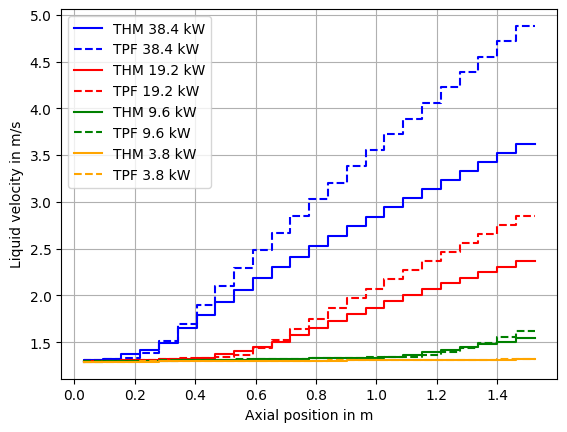
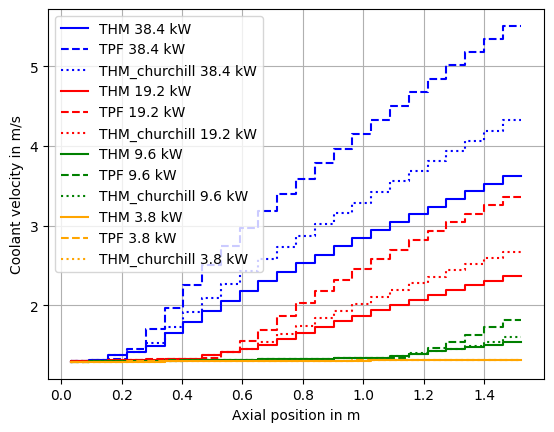
comparaiosn THM pour le f de chruchill

diff --git a/Version5_ev3727/Plot_TPF_THM.py b/Version5_ev3727/Plot_TPF_THM.py
@@ -36,6 +36,17 @@ raw_data_0 = """PCOOL:   7214343.00       7213741.50       7213140.50       7212
  MUT:   9.80513869E-05   9.78959506E-05   9.77416494E-05   9.75866351E-05   9.74330032E-05   9.72788766E-05   9.71258851E-05   9.69723988E-05   9.68200038E-05   9.66672960E-05   9.65148793E-05   9.63631755E-05   9.62116537E-05   9.60604375E-05   9.59094905E-05   9.57589800E-05   9.56083750E-05   9.54586067E-05   9.53086346E-05   9.51594920E-05   9.50099784E-05   9.48612069E-05   9.47124281E-05   9.45642823E-05   9.44160056E-05
  HCOOL:   1186342.25       1188152.50       1189962.88       1191773.00       1193583.25       1195393.38       1197203.75       1199013.88       1200824.25       1202634.62       1204444.88       1206255.12       1208065.38       1209875.62       1211685.75       1213496.00       1215306.25       1217116.62       1218927.00       1220737.38       1222547.50       1224357.88       1226168.38       1227978.50       1229788.88    
 """
+#friction churchill
+raw_data_0c="""PCOOL:   7214343.00       7213742.00       7213140.50       7212540.00       7211939.50       7211339.50       7210740.00       7210140.50       7209541.00       7208942.50       7208344.00       7207746.00       7207148.00       7206550.50       7205953.50       7205356.50       7204760.00       7204164.00       7203568.00       7202972.50       7202377.50       7201782.50       7201188.00       7200594.00       7200000.00    
+ VCOOL:   1.28856492       1.28961885       1.29067099       1.29173350       1.29279280       1.29386115       1.29492581       1.29600334       1.29707670       1.29816020       1.29924440       1.30033183       1.30142474       1.30251861       1.30361915       1.30472124       1.30582905       1.30693853       1.30805612       1.30917287       1.31029522       1.31142247       1.31255352       1.31368744       1.31482649    
+ DCOOL:   769.617004       768.988037       768.361206       767.729187       767.100098       766.466675       765.836548       765.199768       764.566528       763.928406       763.290955       762.652588       762.012024       761.372070       760.729431       760.086975       759.442139       758.797363       758.149048       757.502319       756.853577       756.203308       755.551514       754.899231       754.244141    
+ TCOOL:   543.329163       543.685486       544.039612       544.395630       544.748901       545.103638       545.455505       545.810059       546.161560       546.514771       546.866577       547.217773       547.569153       547.919189       548.269592       548.618835       548.968384       549.316833       549.666016       550.013367       550.360718       550.707764       551.054626       551.400635       551.746948    
+ EPS:   0.00000000       0.00000000       0.00000000       0.00000000       0.00000000       0.00000000       0.00000000       0.00000000       0.00000000       0.00000000       0.00000000       0.00000000       0.00000000       0.00000000       0.00000000       0.00000000       0.00000000       0.00000000       0.00000000       0.00000000       0.00000000       0.00000000       0.00000000       0.00000000       0.00000000    
+ XFL:   0.00000000       0.00000000       0.00000000       0.00000000       0.00000000       0.00000000       0.00000000       0.00000000       0.00000000       0.00000000       0.00000000       0.00000000       0.00000000       0.00000000       0.00000000       0.00000000       0.00000000       0.00000000       0.00000000       0.00000000       0.00000000       0.00000000       0.00000000       0.00000000       0.00000000    
+ TSAT:   561.028198       561.022522       561.016846       561.011169       561.005493       560.999817       560.994202       560.988525       560.982849       560.977173       560.971558       560.965881       560.960205       560.954590       560.948914       560.943298       560.937622       560.932007       560.926392       560.920715       560.915100       560.909485       560.903870       560.898254       560.892639    
+ MUT:   9.80513869E-05   9.78960015E-05   9.77417294E-05   9.75867952E-05   9.74332143E-05   9.72791386E-05   9.71264599E-05   9.69727625E-05   9.68205277E-05   9.66676889E-05   9.65155923E-05   9.63638886E-05   9.62122285E-05   9.60612742E-05   9.59102836E-05   9.57599041E-05   9.56095028E-05   9.54596835E-05   9.53096533E-05   9.51605107E-05   9.50114627E-05   9.48626475E-05   9.47139924E-05   9.45657957E-05   9.44175481E-05
+ HCOOL:   1186342.25       1188151.75       1189961.12       1191770.62       1193580.12       1195389.75       1197199.25       1199008.75       1200818.25       1202627.75       1204437.25       1206246.88       1208056.38       1209865.88       1211675.25       1213484.75       1215294.25       1217103.62       1218913.12       1220722.62       1222532.12       1224341.50       1226151.00       1227960.50       1229770.00    
+"""
 
 raw_data_1="""PCOOL:   7214648.00       7214045.50       7213444.00       7212843.00       7212243.00       7211643.50       7211045.00       7210447.50       7209850.50       7209254.50       7208659.50       7208065.00       7207471.50       7206879.00       7206287.00       7205696.00       7205105.50       7204516.50       7203904.50       7203277.00       7202641.00       7201996.00       7201342.00       7200678.50       7200000.00    
  VCOOL:   1.28936708       1.29203475       1.29472744       1.29744363       1.30018187       1.30294347       1.30572963       1.30854356       1.31137776       1.31424165       1.31712723       1.32004178       1.32298541       1.32595110       1.32894826       1.33197105       1.33502328       1.33810496       1.36738503       1.39379382       1.42038393       1.44739127       1.47522092       1.50430644       1.54363000    
@@ -46,6 +57,17 @@ raw_data_1="""PCOOL:   7214648.00       7214045.50       7213444.00       721284
  TSAT:   561.031128       561.025391       561.019714       561.014038       561.008362       561.002686       560.997070       560.991394       560.985779       560.980164       560.974487       560.968872       560.963257       560.957703       560.952087       560.946472       560.940918       560.935364       560.929565       560.923645       560.917603       560.911499       560.905334       560.899048       560.892639    
  MUT:   9.79334945E-05   9.75435323E-05   9.71548288E-05   9.67686137E-05   9.63849598E-05   9.60028556E-05   9.56228178E-05   9.52444752E-05   9.48681118E-05   9.44934436E-05   9.41207691E-05   9.37495715E-05   9.33803967E-05   9.30125534E-05   9.26462744E-05   9.22815234E-05   9.19183221E-05   9.15565470E-05   9.12295363E-05   9.10710078E-05   9.09199080E-05   9.07786234E-05   9.06509886E-05   9.05660272E-05   9.05685010E-05
  HCOOL:   1189104.12       1193676.38       1198248.62       1202820.88       1207393.12       1211965.38       1216537.62       1221110.00       1225682.25       1230254.38       1234826.62       1239398.88       1243971.25       1248543.50       1253115.75       1257687.88       1262260.00       1266832.25       1270870.00       1274895.00       1278887.88       1282838.88       1286737.12       1290571.12       1294104.50    
+"""
+#friction churchill
+raw_data_1c="""PCOOL:   7214749.00       7214147.00       7213545.00       7212944.00       7212344.00       7211745.00       7211146.50       7210549.00       7209952.00       7209356.00       7208761.00       7208166.50       7207573.00       7206980.00       7206388.50       7205797.50       7205207.00       7204617.50       7204005.00       7203375.00       7202735.00       7202085.00       7201415.50       7200716.00       7200000.00    
+ VCOOL:   1.28936708       1.29203343       1.29472661       1.29744279       1.30017984       1.30294120       1.30572653       1.30853975       1.31137395       1.31423688       1.31712162       1.32003784       1.32297611       1.32594383       1.32893908       1.33196247       1.33501458       1.33809519       1.36788917       1.39524591       1.42331851       1.45245349       1.49104238       1.54436016       1.59661555    
+ DCOOL:   769.138184       767.550781       765.954285       764.350769       762.741760       761.125244       759.501587       757.868774       756.230225       754.583435       752.929565       751.267578       749.598755       747.921082       746.235352       744.541443       742.839478       741.129150       724.983459       710.770996       696.752258       682.775452       665.107117       642.146912       621.127625    
+ TCOOL:   543.600952       544.497192       545.391846       546.283875       547.172302       548.058167       548.941284       549.822571       550.700073       551.575195       552.447144       553.316284       554.182129       555.045410       555.905701       556.762939       557.617065       558.468018       559.333740       559.797668       560.240173       560.655518       560.906006       560.899414       560.892639    
+ EPS:   0.00000000       0.00000000       0.00000000       0.00000000       0.00000000       0.00000000       0.00000000       0.00000000       0.00000000       0.00000000       0.00000000       0.00000000       0.00000000       0.00000000       0.00000000       0.00000000       0.00000000       0.00000000       2.00579576E-02   3.91325913E-02   5.80414869E-02   7.70120323E-02  0.101706922      0.134595037      0.164703265    
+ XFL:   0.00000000       0.00000000       0.00000000       0.00000000       0.00000000       0.00000000       0.00000000       0.00000000       0.00000000       0.00000000       0.00000000       0.00000000       0.00000000       0.00000000       0.00000000       0.00000000       0.00000000       0.00000000       1.37762004E-03   2.77754315E-03   4.25683009E-03   5.83665399E-03   8.00748449E-03   1.10942414E-02   1.41817238E-02
+ TSAT:   561.032043       561.026367       561.020691       561.015015       561.009338       561.003662       560.998047       560.992371       560.986755       560.981079       560.975464       560.969849       560.964233       560.958618       560.953064       560.947449       560.941895       560.936279       560.930481       560.924561       560.918518       560.912354       560.906006       560.899414       560.892639    
+ MUT:   9.79331235E-05   9.75431903E-05   9.71549380E-05   9.67687520E-05   9.63849889E-05   9.60031539E-05   9.56232470E-05   9.52448245E-05   9.48686647E-05   9.44941057E-05   9.41214312E-05   9.37504155E-05   9.33812116E-05   9.30134483E-05   9.26472421E-05   9.22825711E-05   9.19193917E-05   9.15576748E-05   9.11897223E-05   9.09924347E-05   9.08042275E-05   9.06275382E-05   9.05633424E-05   9.05658817E-05   9.05685010E-05
+ HCOOL:   1189104.12       1193675.62       1198247.00       1202818.38       1207389.75       1211961.25       1216532.50       1221104.00       1225675.38       1230246.75       1234818.12       1239389.38       1243960.75       1248532.25       1253103.50       1257675.00       1262246.25       1266817.62       1271388.88       1275960.25       1280531.62       1285102.88       1289674.25       1294245.50       1298817.00    
 """
 
 raw_data_2 = """PCOOL:   7218490.50       7217886.00       7217283.50       7216682.00       7216082.50       7215484.50       7214888.00       7214293.00       7213669.00       7213027.50       7212372.00       7211692.50       7210962.00       7210208.00       7209429.50       7208624.50       7207792.00       7206931.00       7206039.50       7205117.00       7204162.00       7203174.00       7202151.50       7201093.50       7200000.00    
@@ -58,6 +80,17 @@ raw_data_2 = """PCOOL:   7218490.50       7217886.00       7217283.50       7216
  MUT:   9.77393938E-05   9.69631583E-05   9.61953920E-05   9.54354982E-05   9.46829750E-05   9.39378660E-05   9.31989052E-05   9.24668930E-05   9.16559366E-05   9.11999086E-05   9.07823633E-05   9.05258348E-05   9.05284978E-05   9.05312481E-05   9.05340785E-05   9.05370252E-05   9.05400593E-05   9.05431953E-05   9.05464476E-05   9.05498164E-05   9.05533016E-05   9.05569032E-05   9.05606576E-05   9.05645211E-05   9.05685010E-05
  HCOOL:   1193675.62       1202819.25       1211963.00       1221106.62       1230250.25       1239394.00       1248537.75       1257681.38       1266142.62       1274549.25       1282832.25       1290741.12       1297698.75       1304560.88       1311344.00       1318061.62       1324724.75       1331343.00       1337923.62       1344473.25       1350997.38       1357501.00       1363988.00       1370461.88       1376925.75    
 """
+#friction churchill
+raw_data_2c = """PCOOL:   7220179.00       7219575.00       7218972.00       7218371.00       7217771.00       7217173.00       7216576.50       7215982.00       7215356.50       7214711.50       7214051.00       7213325.50       7212552.00       7211745.50       7210903.50       7210022.50       7209100.50       7208135.00       7207124.00       7206065.50       7204957.50       7203799.00       7202587.50       7201321.50       7200000.00    
+ VCOOL:   1.29068792       1.29606915       1.30154288       1.30711448       1.31278431       1.31855631       1.32443774       1.33042383       1.37218606       1.41015458       1.45152760       1.53730083       1.64058197       1.74008000       1.83617616       1.92921031       2.01948595       2.10726070       2.19277024       2.27624059       2.35785532       2.43778491       2.51604915       2.59297299       2.66859818    
+ DCOOL:   768.351257       765.161072       761.943726       758.695251       755.418945       752.112000       748.771973       745.402832       722.719604       703.264954       683.223389       645.145264       604.526550       569.957520       540.125366       514.074585       491.091736       470.631470       452.274445       435.686218       420.601685       406.806976       394.149109       382.452911       371.610596    
+ TCOOL:   544.049927       545.838257       547.615356       549.382751       551.138062       552.882202       554.615601       556.335632       558.367432       559.562256       560.671265       561.018616       561.011292       561.003662       560.995728       560.987427       560.978699       560.969604       560.960022       560.950012       560.939514       560.928589       560.917114       560.905151       560.892639    
+ EPS:   0.00000000       0.00000000       0.00000000       0.00000000       0.00000000       0.00000000       0.00000000       0.00000000       2.57300157E-02   5.04202172E-02   7.63334781E-02  0.130037963      0.188232660      0.237760067      0.280500889      0.317824304      0.350752294      0.380066425      0.406367064      0.430133522      0.451745659      0.471509635      0.489644885      0.506402194      0.521936059    
+ XFL:   0.00000000       0.00000000       0.00000000       0.00000000       0.00000000       0.00000000       0.00000000       0.00000000       1.74785615E-03   3.61474790E-03   5.78150619E-03   1.06728915E-02   1.68290492E-02   2.29857750E-02   2.91432068E-02   3.53013910E-02   4.14603837E-02   4.76206131E-02   5.37814274E-02   5.99433333E-02   6.61062971E-02   7.22701177E-02   7.84350634E-02   8.46009329E-02   9.07678381E-02
+ TSAT:   561.083313       561.077637       561.071960       561.066284       561.060608       561.054932       561.049316       561.043701       561.037781       561.031677       561.025452       561.018616       561.011292       561.003662       560.995728       560.987427       560.978699       560.969543       560.960022       560.950012       560.939514       560.928589       560.917114       560.905151       560.892639    
+ MUT:   9.77394811E-05   9.69635948E-05   9.61961778E-05   9.54360803E-05   9.46838554E-05   9.39386227E-05   9.31997201E-05   9.24677952E-05   9.16042482E-05   9.10965391E-05   9.06252317E-05   9.05198758E-05   9.05226989E-05   9.05256456E-05   9.05287088E-05   9.05319102E-05   9.05352790E-05   9.05388151E-05   9.05424895E-05   9.05463530E-05   9.05504057E-05   9.05546185E-05   9.05590496E-05   9.05636698E-05   9.05685010E-05
+ HCOOL:   1193675.62       1202818.50       1211961.38       1221104.25       1230247.25       1239390.12       1248533.00       1257675.75       1266818.62       1275961.38       1285104.12       1294247.00       1303389.88       1312532.75       1321675.75       1330818.62       1339961.50       1349104.25       1358247.12       1367390.00       1376532.88       1385675.75       1394818.62       1403961.50       1413104.38    
+"""
 
 raw_data_4= """PCOOL:   7230546.50       7229938.00       7229333.00       7228693.50       7228038.50       7227341.00       7226523.50       7225663.50       7224753.00       7223787.50       7222761.00       7221669.00       7220508.50       7219275.00       7217965.50       7216577.00       7215106.00       7213549.50       7211904.50       7210168.00       7208336.50       7206407.00       7204377.00       7202242.00       7200000.00    
  VCOOL:   1.29334688       1.30429351       1.31563377       1.36956787       1.41714597       1.49067843       1.64780414       1.79303622       1.92915261       2.05806279       2.18113208       2.29939055       2.41364479       2.52453303       2.63234329       2.73774934       2.84100032       2.94238091       3.04214859       3.14050579       3.23765182       3.33375168       3.42896056       3.52340150       3.61719275    
@@ -69,7 +102,20 @@ raw_data_4= """PCOOL:   7230546.50       7229938.00       7229333.00       72286
  MUT:   9.73543865E-05   9.58192104E-05   9.43144987E-05   9.24204505E-05   9.12840042E-05   9.04688131E-05   9.04718036E-05   9.04749395E-05   9.04782355E-05   9.04817643E-05   9.04854824E-05   9.04894623E-05   9.04937042E-05   9.04982080E-05   9.05029592E-05   9.05080233E-05   9.05134002E-05   9.05190464E-05   9.05250563E-05   9.05313937E-05   9.05380875E-05   9.05451016E-05   9.05525230E-05   9.05603229E-05   9.05685010E-05
  HCOOL:   1202818.50       1221105.00       1239391.50       1256935.00       1274332.00       1290922.00       1304767.25       1318294.62       1331609.62       1344782.50       1357861.88       1370882.00       1383866.75       1396833.62       1409797.88       1422762.75       1435736.88       1448724.50       1461728.25       1474748.25       1487785.38       1500841.88       1513918.00       1527014.00       1540129.38    
 """
-z, TempVap, TempLiq, TempFuelC, TempStru, Void, Pressure, VelzVap, VelzLiq = [], [], [], [], [], [], [], [], []
+
+#friction churchill
+raw_data_4c="""PCOOL:   7238707.50       7238099.50       7237494.00       7236853.50       7236195.50       7235457.50       7234571.50       7233621.00       7232595.00       7231483.50       7230277.50       7228970.50       7227556.00       7226027.00       7224378.00       7222603.00       7220697.00       7218653.50       7216467.00       7214132.00       7211641.50       7208990.00       7206170.50       7203176.00       7200000.00    
+ VCOOL:   1.29332864       1.30427277       1.31561291       1.37010741       1.41898739       1.52459574       1.72744417       1.91655183       2.09445763       2.26316833       2.42430139       2.57917309       2.72856545       2.87360907       3.01490617       3.15305305       3.28855109       3.42182803       3.55325937       3.68316627       3.81183267       3.93950272       4.06640339       4.19272900       4.31864500    
+ DCOOL:   766.782593       760.347595       753.794373       723.815430       698.882812       650.480469       574.097595       517.450989       473.497498       438.199371       409.073792       384.510223       363.457458       345.112030       328.937439       314.525024       301.565521       289.819550       279.099213       269.254913       260.165833       251.733856       243.877274       236.528885       229.631760    
+ TCOOL:   544.944763       548.500061       552.011963       556.595581       559.420410       561.227478       561.219116       561.210144       561.200500       561.190002       561.178589       561.166321       561.152954       561.138550       561.122986       561.106201       561.088196       561.068909       561.048279       561.026245       561.002686       560.977661       560.950989       560.922668       560.892639    
+ EPS:   0.00000000       0.00000000       0.00000000       2.85868179E-02   5.70075400E-02  0.121926486      0.231430337      0.312639982      0.375652611      0.426256627      0.468011618      0.503226042      0.533407152      0.559706509      0.582893312      0.603553355      0.622129858      0.638965964      0.654330969      0.668439329      0.681464136      0.693545997      0.704801977      0.715328395      0.725206733    
+ XFL:   0.00000000       0.00000000       0.00000000       1.88527524E-03   4.11142269E-03   9.93153732E-03   2.22331136E-02   3.45358364E-02   4.68398444E-02   5.91456480E-02   7.14532435E-02   8.37622508E-02   9.60734189E-02  0.108386189      0.120700978      0.133017674      0.145336002      0.157656029      0.169977725      0.182300940      0.194625914      0.206952021      0.219279692      0.231608450      0.243938401    
+ TSAT:   561.258057       561.252380       561.246643       561.240601       561.234436       561.227478       561.219116       561.210144       561.200500       561.190002       561.178589       561.166321       561.152954       561.138550       561.122986       561.106201       561.088196       561.068909       561.048279       561.026245       561.002686       560.977661       560.950989       560.922668       560.892639    
+ MUT:   9.73567803E-05   9.58217061E-05   9.43169653E-05   9.23646439E-05   9.11645620E-05   9.04392873E-05   9.04425106E-05   9.04459739E-05   9.04496919E-05   9.04537446E-05   9.04581466E-05   9.04628760E-05   9.04680346E-05   9.04735934E-05   9.04795961E-05   9.04860790E-05   9.04930203E-05   9.05004636E-05   9.05084235E-05   9.05169290E-05   9.05260240E-05   9.05356792E-05   9.05459747E-05   9.05569104E-05   9.05685010E-05
+ HCOOL:   1202818.50       1221104.25       1239389.88       1257675.75       1275961.50       1294247.25       1312533.00       1330818.75       1349104.50       1367390.38       1385676.12       1403961.88       1422247.62       1440533.25       1458819.00       1477104.75       1495390.50       1513676.25       1531962.00       1550247.75       1568533.50       1586819.25       1605105.12       1623390.75       1641676.62    
+"""
+
+z, TempVap, TempLiq, TempFuelC, TempStru, Void, Pressure, VelzVap, VelzLiq, VelzMoy = [], [], [], [], [], [], [], [], [], []
 
 # Traitement de chaque ligne pour extraire les valeurs numériques
 def extraire(var_name, line_nb, data_name):
@@ -80,7 +126,7 @@ def extraire(var_name, line_nb, data_name):
         var_name.append(float(value))
     return
 
-# Valeurs THM
+# Valeurs THM sans Chruchill
 PCOOL0=[]
 PCOOL1=[]
 PCOOL2=[]
@@ -122,6 +168,44 @@ PCOOL=[PCOOL4, PCOOL2, PCOOL1, PCOOL0]
 EPS=[EPS4, EPS2, EPS1, EPS0]
 TCOOL=[TCOOL4, TCOOL2, TCOOL1, TCOOL0]
 
+# Valeurs THM avec Churchill
+PCOOL0c=[]
+PCOOL1c=[]
+PCOOL2c=[]
+PCOOL4c=[]  
+extraire(PCOOL0c, 0, raw_data_0c)
+extraire(PCOOL1c, 0, raw_data_1c)
+extraire(PCOOL2c, 0, raw_data_2c)
+extraire(PCOOL4c, 0, raw_data_4c)
+VCOOL0c=[]
+VCOOL1c=[]
+VCOOL2c=[]
+VCOOL4c=[]
+extraire(VCOOL0c, 1, raw_data_0c)
+extraire(VCOOL1c, 1, raw_data_1c)   
+extraire(VCOOL2c, 1, raw_data_2c)
+extraire(VCOOL4c, 1, raw_data_4c)
+EPS0c=[]
+EPS1c=[]
+EPS2c=[]
+EPS4c=[]
+extraire(EPS0c, 4, raw_data_0c)
+extraire(EPS1c, 4, raw_data_1c)
+extraire(EPS2c, 4, raw_data_2c)
+extraire(EPS4c, 4, raw_data_4c)
+TCOOL0c=[]
+TCOOL1c=[]
+TCOOL2c=[]
+TCOOL4c=[]
+extraire(TCOOL0c, 3, raw_data_0c)
+extraire(TCOOL1c, 3, raw_data_1c)
+extraire(TCOOL2c, 3, raw_data_2c)
+extraire(TCOOL4c, 3, raw_data_4c)
+VCOOLc=[VCOOL4c, VCOOL2c, VCOOL1c, VCOOL0c]
+PCOOLc=[PCOOL4c, PCOOL2c, PCOOL1c, PCOOL0c]
+EPSc=[EPS4c, EPS2c, EPS1c, EPS0c]
+TCOOLc=[TCOOL4c, TCOOL2c, TCOOL1c, TCOOL0c]
+
 
 powers = [4,2,1,0]
 powerskW = [38.4, 19.2, 9.6, 3.8]
@@ -137,6 +221,7 @@ for i in powers:
     Pressure.append(X[6])
     VelzVap.append(X[7])
     VelzLiq.append(X[8])
+    VelzMoy.append(0)
 
 colors = ['blue', 'red', 'green', 'orange']
 
@@ -146,6 +231,7 @@ for i in range(len(z)):
     #ax.step(z[i], TempVap[i], label=f"TPF {powerskW[i]} kW", linestyle='--', color = colors[i])
     ax.step(z[i], TCOOL[i], label=f"THM {powerskW[i]} kW", linestyle='--', color = colors[i])
     ax.step(z[i], TempLiq[i], label=f"TPF {powerskW[i]} kW", linestyle='-', color = colors[i])
+    ax.step(z[i], TCOOLc[i], label=f"THM_churchill {powerskW[i]} kW", linestyle=':', color = colors[i])
 ax.set_xlabel("Axial position in m")
 ax.set_ylabel("Temperature in K")
 ax.grid()
@@ -157,6 +243,7 @@ for i in range(len(z)):
     #ax1.step(caseMerge[i].convection_sol.z_mesh, caseMerge[i].convection_sol.voidFraction[-1], label=f"THM_p {powerskW[i]} kW", color=colors[i])
     ax1.step(z[i], EPS[i], label=f"THM {powerskW[i]} kW", linestyle='-', color = colors[i])
     ax1.step(z[i], Void[i], label=f"TPF {powerskW[i]} kW", linestyle='--', color = colors[i])
+    ax1.step(z[i], EPSc[i], label=f"THM_churchill {powerskW[i]} kW", linestyle=':', color = colors[i])
 ax1.set_xlabel("Axial position in m")
 ax1.set_ylabel("Void fraction")
 ax1.grid()
@@ -168,6 +255,7 @@ for i in range(len(z)):
     #ax2.step(caseMerge[i].convection_sol.z_mesh, caseMerge[i].convection_sol.P[-1], label=f"THM_p {powerskW[i]} kW", color=colors[i])
     ax2.step(z[i], PCOOL[i], label=f"THM {powerskW[i]} kW", linestyle='-', color = colors[i])
     ax2.step(z[i], Pressure[i], label=f"TPF {powerskW[i]} kW", linestyle='--', color = colors[i])
+    ax2.step(z[i], PCOOLc[i], label=f"THM_churchill {powerskW[i]} kW", linestyle=':', color = colors[i])
 ax2.set_xlabel("Axial position in m")
 ax2.set_ylabel("Pressure in Pa")
 ax2.grid()
@@ -178,6 +266,7 @@ fig21, ax21 = plt.subplots()
 for i in (0,1):
     ax21.step(z[i], PCOOL[i], label=f"THM {powerskW[i]} kW", linestyle='-', color = colors[i])
     ax21.step(z[i], Pressure[i], label=f"TPF {powerskW[i]} kW", linestyle='--', color = colors[i])
+    ax21.step(z[i], PCOOLc[i], label=f"THM_churchill {powerskW[i]} kW", linestyle=':', color = colors[i])
 ax21.set_xlabel("Axial position in m")
 ax21.set_ylabel("Pressure in Pa")   
 ax21.grid()
@@ -188,6 +277,7 @@ fig22, ax22 = plt.subplots()
 for i in (2,3):
     ax22.step(z[i], PCOOL[i], label=f"THM {powerskW[i]} kW", linestyle='-', color = colors[i])
     ax22.step(z[i], Pressure[i], label=f"TPF {powerskW[i]} kW", linestyle='--', color = colors[i])
+    ax22.step(z[i], PCOOLc[i], label=f"THM_churchill {powerskW[i]} kW", linestyle=':', color = colors[i])
 ax22.set_xlabel("Axial position in m")
 ax22.set_ylabel("Pressure in Pa")
 ax22.grid()
@@ -197,11 +287,13 @@ fig22.savefig(rf'/home/p122173/Version5_BWR/Version5_ev3727/Donjon/data/results_
 
 fig3, ax3 = plt.subplots()
 for i in range(len(z)):
+    VelzMoy[i] = VelzVap[i]*(1-Void[i]) + VelzLiq[i]*Void[i]
     #ax3.step(caseMerge[i].convection_sol.z_mesh, caseMerge[i].convection_sol.Ul, label=f"THM_p {powerskW[i]} kW", color=colors[i])
     ax3.step(z[i], VCOOL[i], label=f"THM {powerskW[i]} kW", linestyle='-', color = colors[i])
-    ax3.step(z[i], VelzLiq[i], label=f"TPF {powerskW[i]} kW", linestyle='--', color = colors[i])
+    ax3.step(z[i], VelzMoy[i], label=f"TPF {powerskW[i]} kW", linestyle='--', color = colors[i])
+    ax3.step(z[i], VCOOLc[i], label=f"THM_churchill {powerskW[i]} kW", linestyle=':', color = colors[i])
 ax3.set_xlabel("Axial position in m")
-ax3.set_ylabel("Liquid velocity in m/s")
+ax3.set_ylabel("Coolant velocity in m/s")
 ax3.grid()
 ax3.legend(loc="best")
 fig3.savefig(rf'/home/p122173/Version5_BWR/Version5_ev3727/Donjon/data/results_marie/TPF_THM_velocity.png', bbox_inches='tight')
@@ -215,6 +307,57 @@ ax4.set_ylabel("Vapor velocity in m/s")
 ax4.grid()
 ax4.legend(loc="best")
 fig4.savefig(rf'/home/p122173/Version5_BWR/Version5_ev3727/Donjon/data/results_marie/TPF_THM_velocity_vapor.png', bbox_inches='tight')
+
+
+# Calcul des différences point par point
+for i in range(len(PCOOL)):
+    diffsP = [a - b for a, b in zip(PCOOL[i], Pressure[i])]
+    diffsPc =[a - b for a, b in zip(PCOOLc[i], Pressure[i])]
+    diffsT = [a - b for a, b in zip(TCOOL[i], TempLiq[i])]
+    diffsTc =[a - b for a, b in zip(TCOOLc[i], TempLiq[i])]
+    diffsV = [a - b for a, b in zip(VCOOL[i], VelzMoy[i])]
+    diffsVc =[a - b for a, b in zip(VCOOLc[i], VelzMoy[i])]
+    diffsE = [a - b for a, b in zip(EPS[i], Void[i])]  
+    diffsEc =[a - b for a, b in zip(EPSc[i], Void[i])]
+
+    # RMS deviation in %
+    rms_deviation_P = np.sqrt(sum(d**2 for d in diffsP) / len(diffsP))/np.mean(Pressure[i])*100
+    rms_deviation_Pc = np.sqrt(sum(d**2 for d in diffsPc) / len(diffsPc))/np.mean(Pressure[i])*100
+    rms_deviation_T = np.sqrt(sum(d**2 for d in diffsT) / len(diffsT))/np.mean(TempLiq[i])*100
+    rms_deviation_Tc = np.sqrt(sum(d**2 for d in diffsTc) / len(diffsTc))/np.mean(TempLiq[i])*100
+    rms_deviation_V = np.sqrt(sum(d**2 for d in diffsV) / len(diffsV))/np.mean(VelzMoy[i])*100
+    rms_deviation_Vc = np.sqrt(sum(d**2 for d in diffsVc) / len(diffsVc))/np.mean(VelzMoy[i])*100
+    rms_deviation_E = np.sqrt(sum(d**2 for d in diffsE) / len(diffsE))*100
+    rms_deviation_Ec = np.sqrt(sum(d**2 for d in diffsEc) / len(diffsEc))*100
+    # Max deviation in %
+    max_deviation_P = max(abs(d) for d in diffsP)/np.mean(Pressure[i])*100
+    max_deviation_Pc = max(abs(d) for d in diffsPc)/np.mean(Pressure[i])*100
+    max_deviation_T = max(abs(d) for d in diffsT)/np.mean(TempLiq[i])*100
+    max_deviation_Tc = max(abs(d) for d in diffsTc)/np.mean(TempLiq[i])*100
+    max_deviation_V = max(abs(d) for d in diffsV)/np.mean(VelzMoy[i])*100
+    max_deviation_Vc = max(abs(d) for d in diffsVc)/np.mean(VelzMoy[i])*100
+    max_deviation_E = max(abs(d) for d in diffsE)*100
+    max_deviation_Ec = max(abs(d) for d in diffsEc)*100
+
+    # Affichage des résultats
+    print(powerskW[i], "kW") 
+    print(f"RMS Deviation Pressure wo C : {rms_deviation_P:.4f}")
+    print(f"Max Deviation Pressure wo C : {max_deviation_P:.4f}")
+    print(f"RMS Deviation Pressure w C : {rms_deviation_Pc:.4f}")
+    print(f"Max Deviation Pressure w C : {max_deviation_Pc:.4f}")
+    print(f"RMS Deviation Temperature wo C : {rms_deviation_T:.4f}")
+    print(f"Max Deviation Temperature wo C : {max_deviation_T:.4f}")
+    print(f"RMS Deviation Temperature w C : {rms_deviation_Tc:.4f}")
+    print(f"Max Deviation Temperature w C : {max_deviation_Tc:.4f}")
+    print(f"RMS Deviation Velocity wo C : {rms_deviation_V:.4f}")
+    print(f"Max Deviation Velocity wo C : {max_deviation_V:.4f}")
+    print(f"RMS Deviation Velocity w C : {rms_deviation_Vc:.4f}")
+    print(f"Max Deviation Velocity w C : {max_deviation_Vc:.4f}")
+    print(f"RMS Deviation Void wo C : {rms_deviation_E:.4f}")
+    print(f"Max Deviation Void wo C : {max_deviation_E:.4f}")
+    print(f"RMS Deviation Void w C : {rms_deviation_Ec:.4f}")
+    print(f"Max Deviation Void w C : {max_deviation_Ec:.4f}")
+
 
 plt.show()
 
